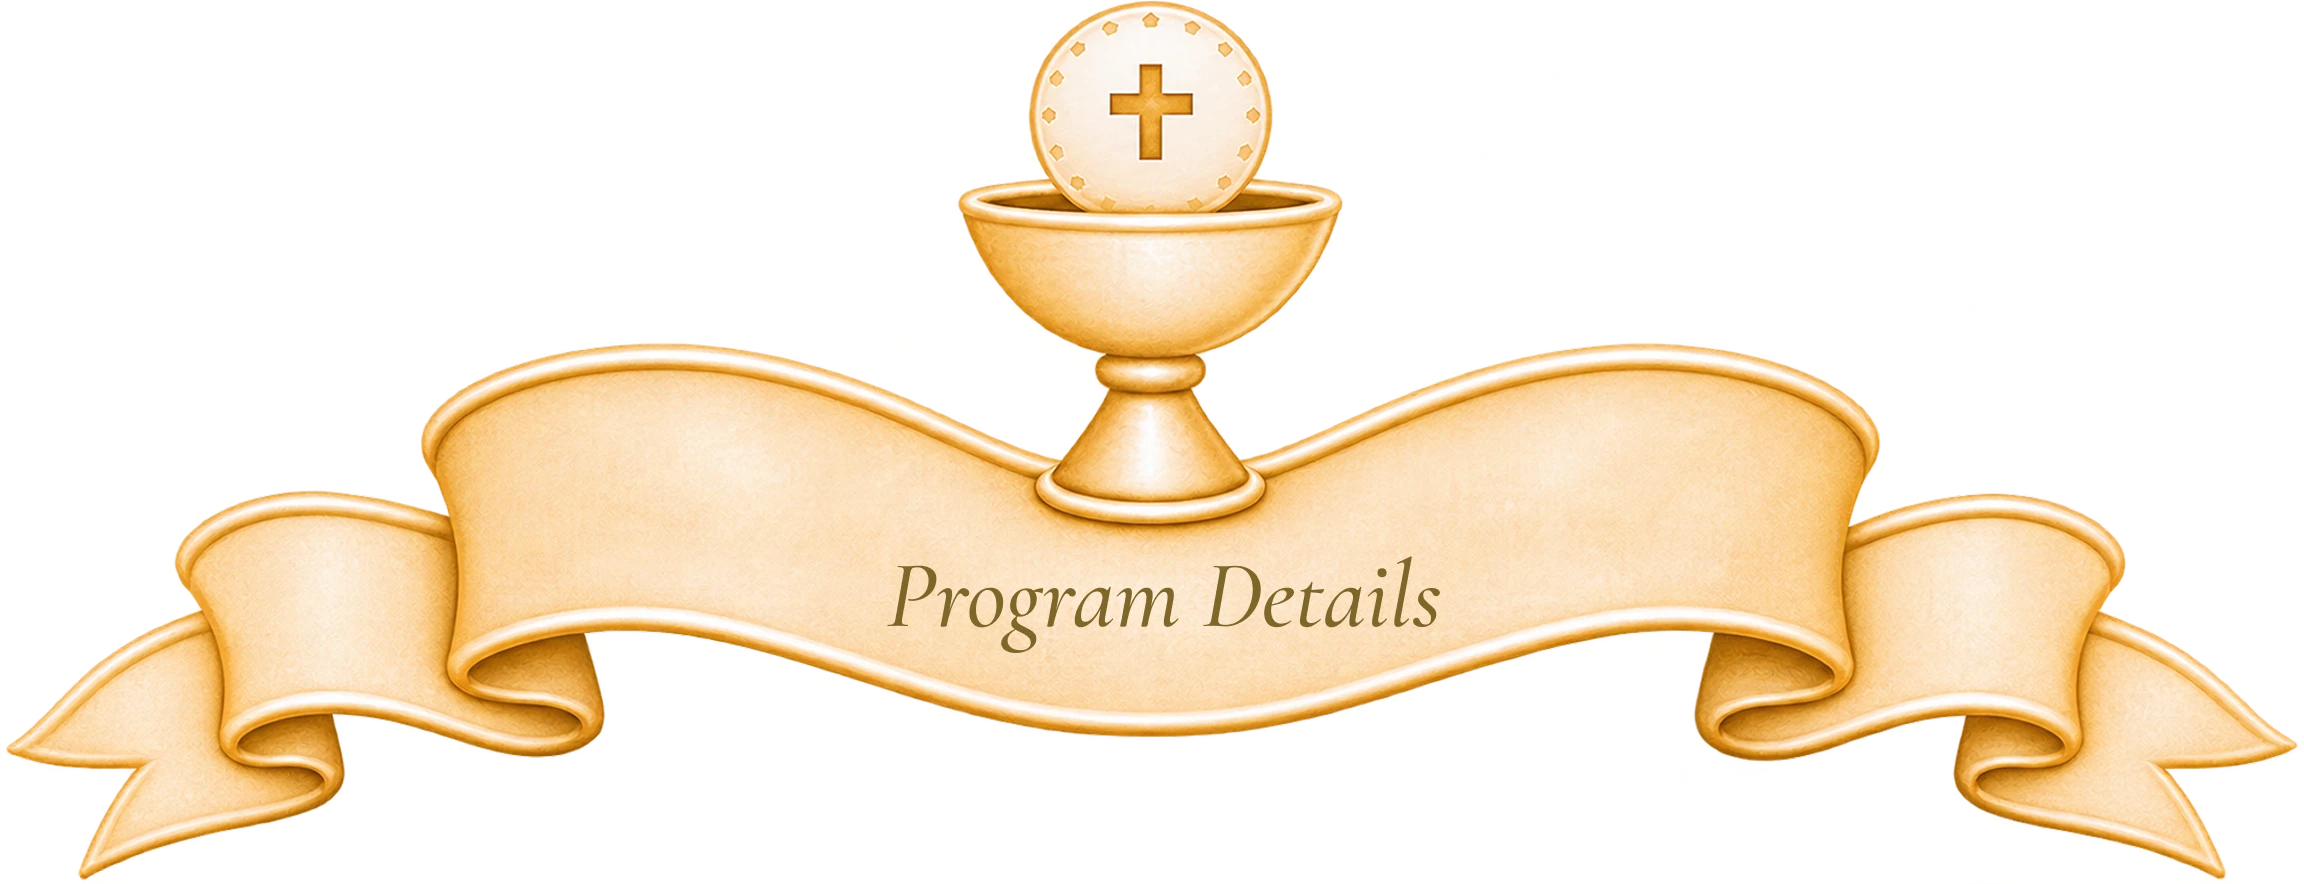
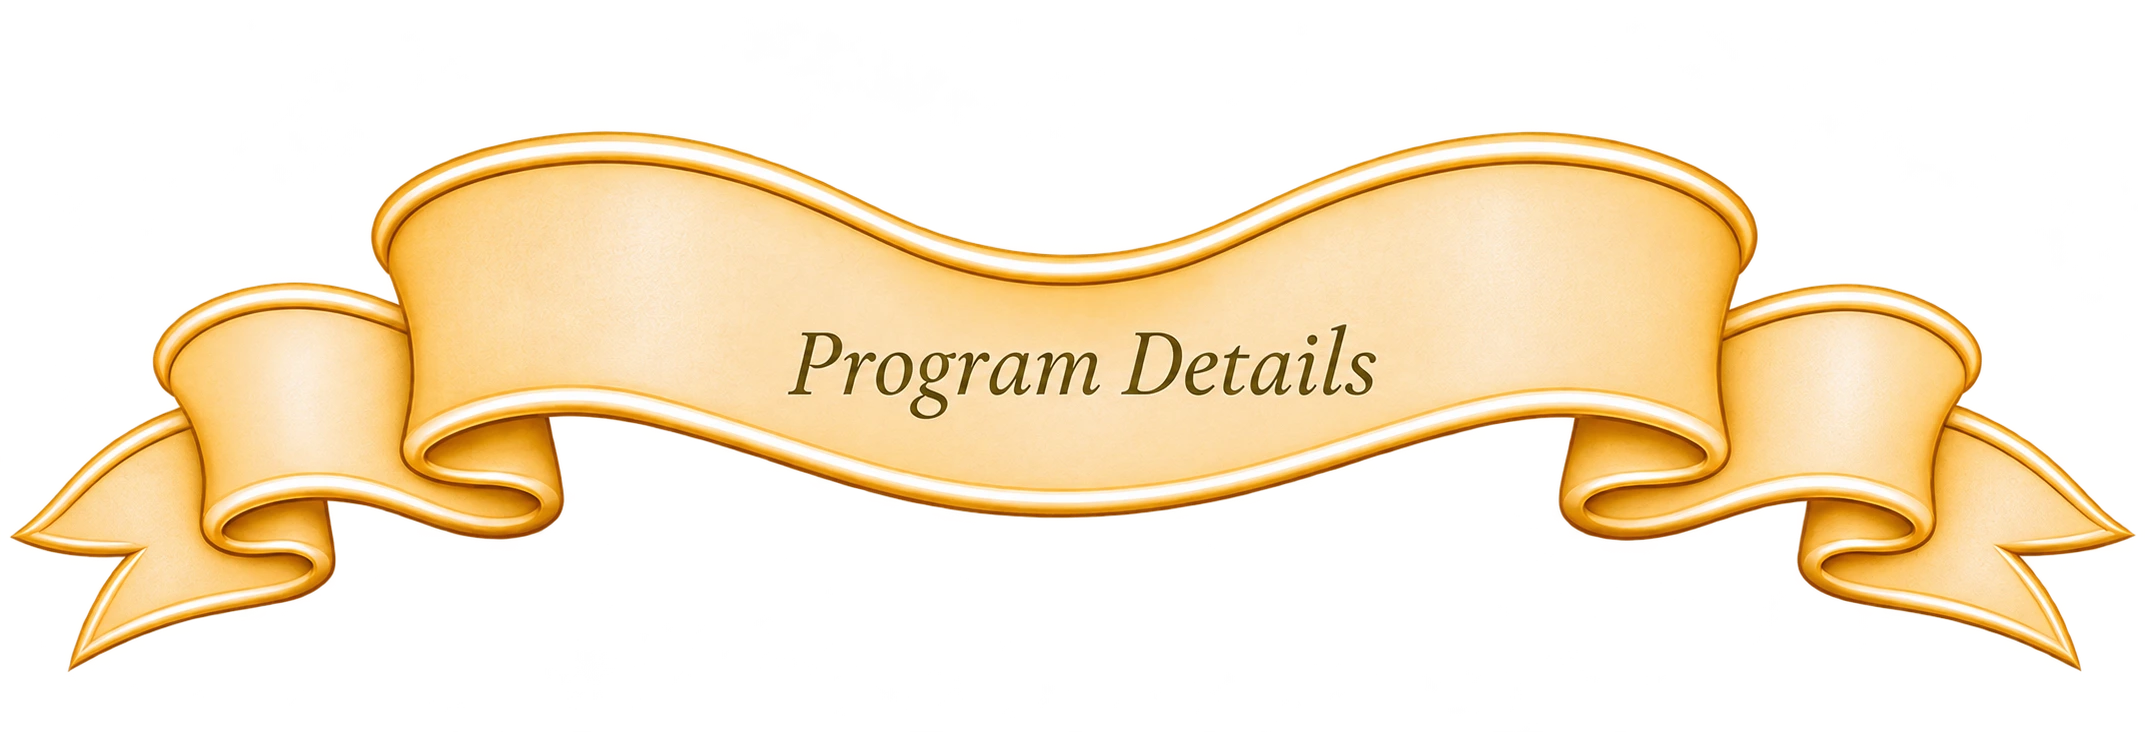
update

diff --git a/src/app/page.js b/src/app/page.js
@@ -22,10 +22,32 @@ const verses = [
   ["A Conqueror", "JEREMIAH 31:3"],
   ["Loved Forever", "JEREMIAH 31:3"],
 ];
+
+const PrayerIcon = ({ size = 28, ...props }) => (
+  <svg
+    xmlns="http://www.w3.org/2000/svg"
+    width={size}
+    height={size}
+    viewBox="0 0 24 24"
+    fill="none"
+    stroke="currentColor"
+    strokeWidth="1.7"
+    strokeLinecap="round"
+    strokeLinejoin="round"
+    {...props}
+  >
+    <path d="M12 2.5V13.2" />
+    <path d="M12 13.2L7.2 18.2L3 14L7 10L9.7 2.8C10.2 1.5 11.8 1.2 12.8 2.1" />
+    <path d="M12 13.2L16.8 18.2L21 14L17 10L14.3 2.8C13.8 1.5 12.2 1.2 11.2 2.1" />
+    <path d="M3 14L1.5 15.5L5.5 19.5L7 18" />
+    <path d="M21 14L22.5 15.5L18.5 19.5L17 18" />
+  </svg>
+);
 const palettes = ["#D0C5A5", "#F1E8D6", "#C5AD89", "#9E9077"];
 const events = [
   { title: "Grand Entry", time: "8:15 PM", icon: DoorOpen },
-  { title: "Prayer", time: "8:30 PM", icon: Cross },
+  // { title: "Prayer", time: "8:30 PM", icon: Cross },
+  { title: "Prayer", time: "8:30 PM", icon: PrayerIcon },
   { title: "Cake Cutting", time: "8:45 PM", icon: Cake },
   { title: "Surprise Performance", time: "9:00 PM", icon: Star },
   {
@@ -126,11 +148,11 @@ export default function Home() {
 
         <section className="relative z-10 w-full flex justify-center py-10 px-4">
           <div className="relative w-full max-w-[500px] aspect-[493/640] overflow-hidden">
-            {/* <div className="absolute top-[16%] left-[14%] z-10">
-              <span className="pinyon-script-regular md:text-3xl  text-2xl text-[#77663d]">
+            <div className="absolute top-[16%] left-[14%] z-10">
+              <span className="cormorant-garamond md:text-3xl  text-2xl text-[#77663d]">
                 I AM
               </span>
-            </div> */}
+            </div>
 
             <img
               src="/assets/sign.webp"
@@ -195,7 +217,7 @@ export default function Home() {
           <img
             src="/assets/element3.webp"
             alt="element2"
-            className="md:w-3/7 w-2/3 md:mt-40 mt-30"
+            className="md:w-3/7 w-4/5 md:mt-40 mt-30"
           />
 
           <img

diff --git a/src/app/components/ThankYouSection.jsx b/src/app/components/ThankYouSection.jsx
@@ -159,7 +159,7 @@ export default function ThankYouSection() {
           Vasai West 401201
         </h2>
            <a
-                href="https://maps.app.goo.gl/PhQbSuw2f2EReetR8"
+                href="https://maps.app.goo.gl/e4FwZ3KWeJwyWaLE9"
                 className="text-[#887344] underline md:text-xl text-[16px] cormorant-garamond"
                 target="_blank"
               >
